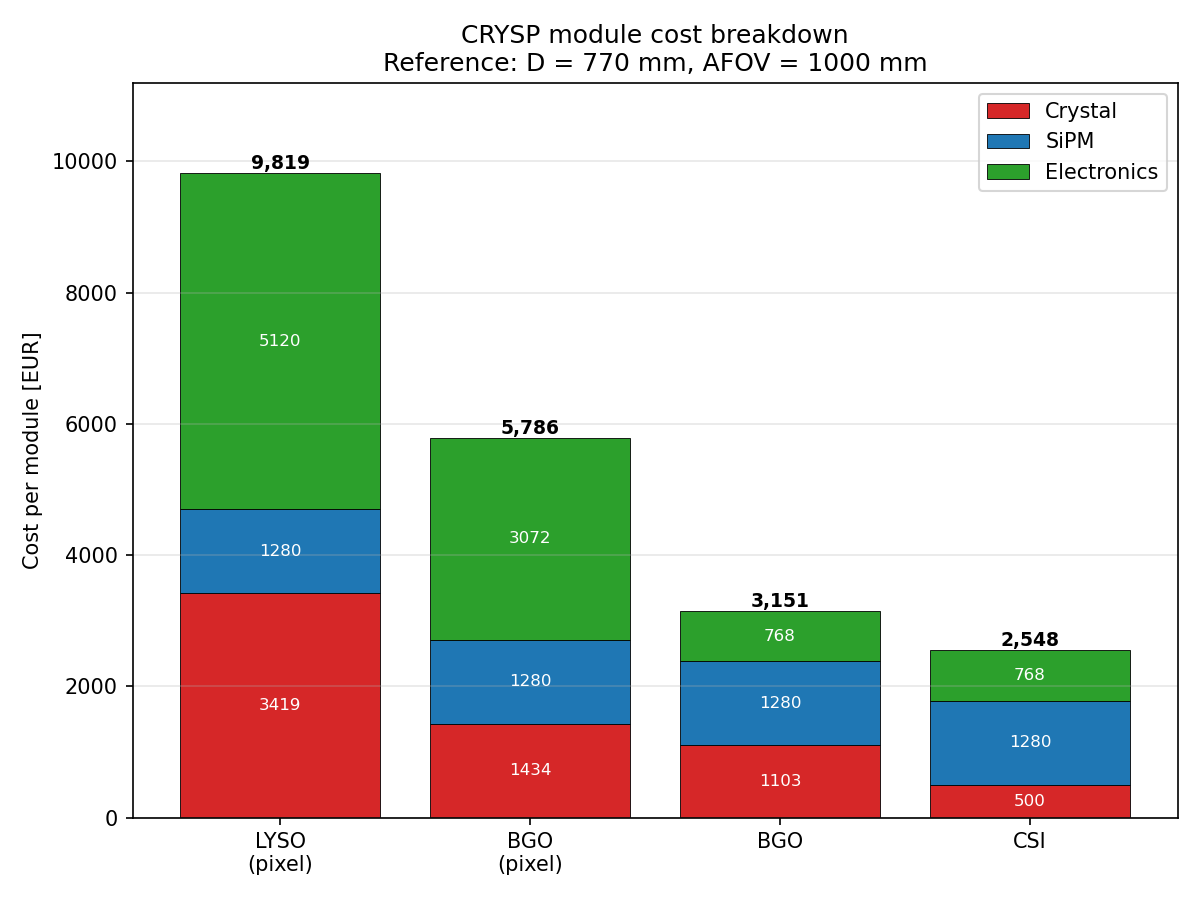
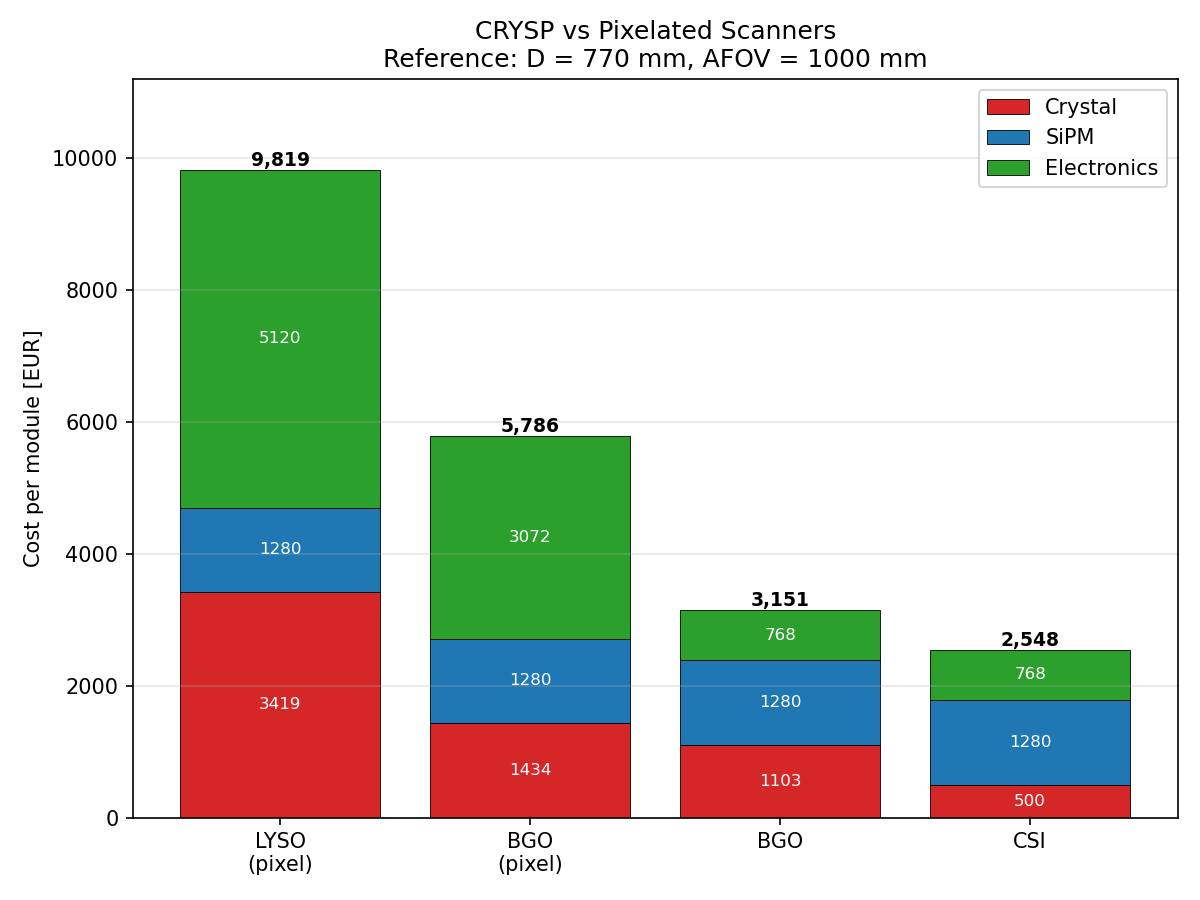
cbs.tex: full editorial review pass
- anchor the two previously unreferenced floats (element-cost table,
  reconstruction-projections figure)
- Simulations: state the DeltaR = R80 - R50 calibration (from a precise
  simulation or otherwise), replacing the stale -16.10/-16.45 single-run line;
  make the ten shards the pool that thinning runs over
- Introduction: drop the unreported apparatus-only "intrinsic" claim and
  resolve the "washout not quantified" contradiction (systematic vs statistical)
- correct the rare-earth statement (LYSO/lutetium, BGO/germanium+bismuth)
- unify the delay symbol to t_d across the three tables
- Table 1 CsI-ring washout row to the re-run values; drop the confusing
  1/sqrt(survival) ~ 1.5 inflation line (two features, not three)
- cost-figure caption to the true reference geometry (D = 774 mm, AFOV = 1024 mm)
  and refresh cost_breakdown.png
- mechanical: cite spacing, "planned ahead of", em-dash cleanup, "aged 0-14
  years", URL wrapped in \url{}, "CsI or BGO crystals", BGO 10% resolution tie-in
- add \FloatBarrier (placeins) so floats stay within their sections

diff --git a/latex/cbs.tex b/latex/cbs.tex
@@ -635,11 +635,10 @@ statistically independent realisations of a single \SI{1}{\gray} acquisition
 Tables~\ref{tab:sigmaR_combined}, \ref{tab:sigmaR_50cm}
 and~\ref{tab:sigmaR_35cm} report $\sigma_R$ for the reference TBP scanner and
 the two smaller configurations (LAFOV, CAFOV), at the three acquisition-delay
-windows, without and with biological washout. Three features are common to all
+windows, without and with biological washout. Two features are common to all
 three geometries. First, the precision degrades smoothly with the acquisition
 delay, as the fixed \SI{300}{s} window records progressively fewer counts while
-$^{15}$O decays. Second, biological washout inflates $\sigma_R$ by the ordinary
-counting factor $1/\sqrt{\text{survival}}\approx 1.5$. Third, BGO
+$^{15}$O decays. Second, BGO
 is the more precise crystal at every delay and geometry, owing to its higher
 sensitivity ($\sim\!2\times$ the counts of CsI). Figure~\ref{fig:shortscan_afov} shows the
 washed range precision $\sigma_R$ at the short in-room scan (the